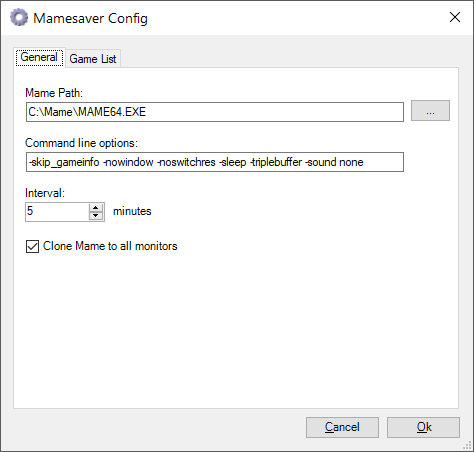
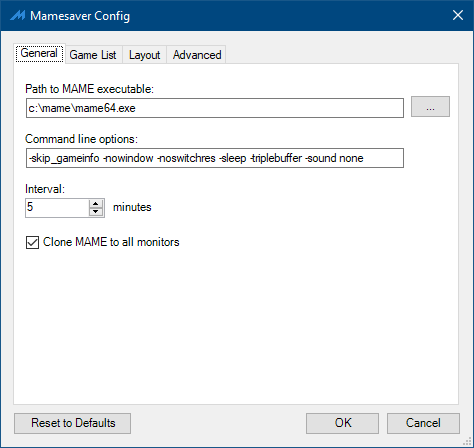
Updated documentation with new dialog screenshots and features

diff --git a/README.md b/README.md
@@ -19,7 +19,7 @@ Mamesaver is a Windows screen saver that runs MAME with a random game for specif
 * Each ROM that is installed should have been run at least once to remove the initial disclaimer screen as this is the last thing you want to see when the screen saver is running.
 
 ### INSTALLATION
-Install using the msi installer, or just copy the Mamesaver.scr file to your WINDOWS\SYSTEM32 or WINNT\SYSTEM32 directory.
+Install using the msi installer, or just copy the `Mamesaver.scr` file to your `WINDOWS\SYSTEM32` or `WINNT\SYSTEM32` directory.
 
 ### USAGE
 
@@ -27,15 +27,26 @@ Right-click on your desktop and choose Properties. Once the Display Properties d
 
 ### CONFIGURATION
 
-The first time you choose Mamesaver as your screen saver, you will need to configure it to tell it the right path to Mame and to rebuild your game list. To do this, you need to click on the Settings button on the screen saver dialog (Display Properties dialog) as mentioned in USAGE.
+The first time you choose Mamesaver as your screen saver, you will need to configure it to tell it the right path to MAME and to rebuild your game list. To do this, you need to click on the Settings button on the screen saver dialog (Display Properties dialog) as mentioned in USAGE.
 
-You have a couple of choices for settings on Mamesaver. The most important setting in the beginning is the Mame Path on the General tab. Once this is set you can navigate to the Game List tab and click on Rebuild List. This can take a couple of minutes so please be patient. Once this has been run, please select which games you want Mamesaver to run. When you have finished, you may click the Ok button.
+You have a couple of choices for settings on Mamesaver. The most important setting in the beginning is the MAME Path on the General tab. Once this is set you can navigate to the Game List tab and click on Rebuild List. Once this has been run, please select which games you want Mamesaver to run. When you have finished, you may click the OK button.
 
-Other than those main settings, you can also set the interval at which the game is changed for another random one, minimum 2 minutes, maximum 1440 minutes (24 hours), and the command line options which are sent to MAME. I recommend leaving the -skip_gameinfo option.
+Other than those main settings, you can also:
+
+* Set the interval at which the game is changed for another; minimum 2 minutes, maximum 1440 minutes (24 hours)
+* Set the command line options which are sent to MAME. I recommend leaving the `-skip_gameinfo` option.
+* Enable and configure the splash screen with game information
+* Enable and configure in-game game information
+* Enable multi-monitor cloning
+* Disable game validation
 
 ### COMMENTS
 
-* The game list will only contain games which have passed the Mame ROM audit and have drivers with a status of good. This means that games, which might be partially working but maybe have no sound or some other part of the driver is not working, will not be displayed in this list. The main reason for this is that MAME shows a dialog which expects user input at the beginning of the game, which is the exact opposite of what you would want a screen saver to do.
+* Game validation should only be bypassed for custom builds of MAME. Unless game validation has been skpped, the game list will only contain games which have passed the MAME ROM audit and have drivers with a status of good. This means that games, which might be partially working but maybe have no sound or some other part of the driver is not working, will not be displayed in this list. The main reason for this is that MAME shows a dialog which expects user input at the beginning of the game, which is the exact opposite of what you would want a screen saver to do.
+
+### LOGGING
+
+If enabled, debug logging is written to `%TEMP%\MameSaver\Logs`. This can be useful to diagnose why Mamesaver may not be running as it should. 
 
 ### CONTRIBUTORS
 ![](https://avatars2.githubusercontent.com/u/229311?s=44&v=4) Mladen Mihajlovic
